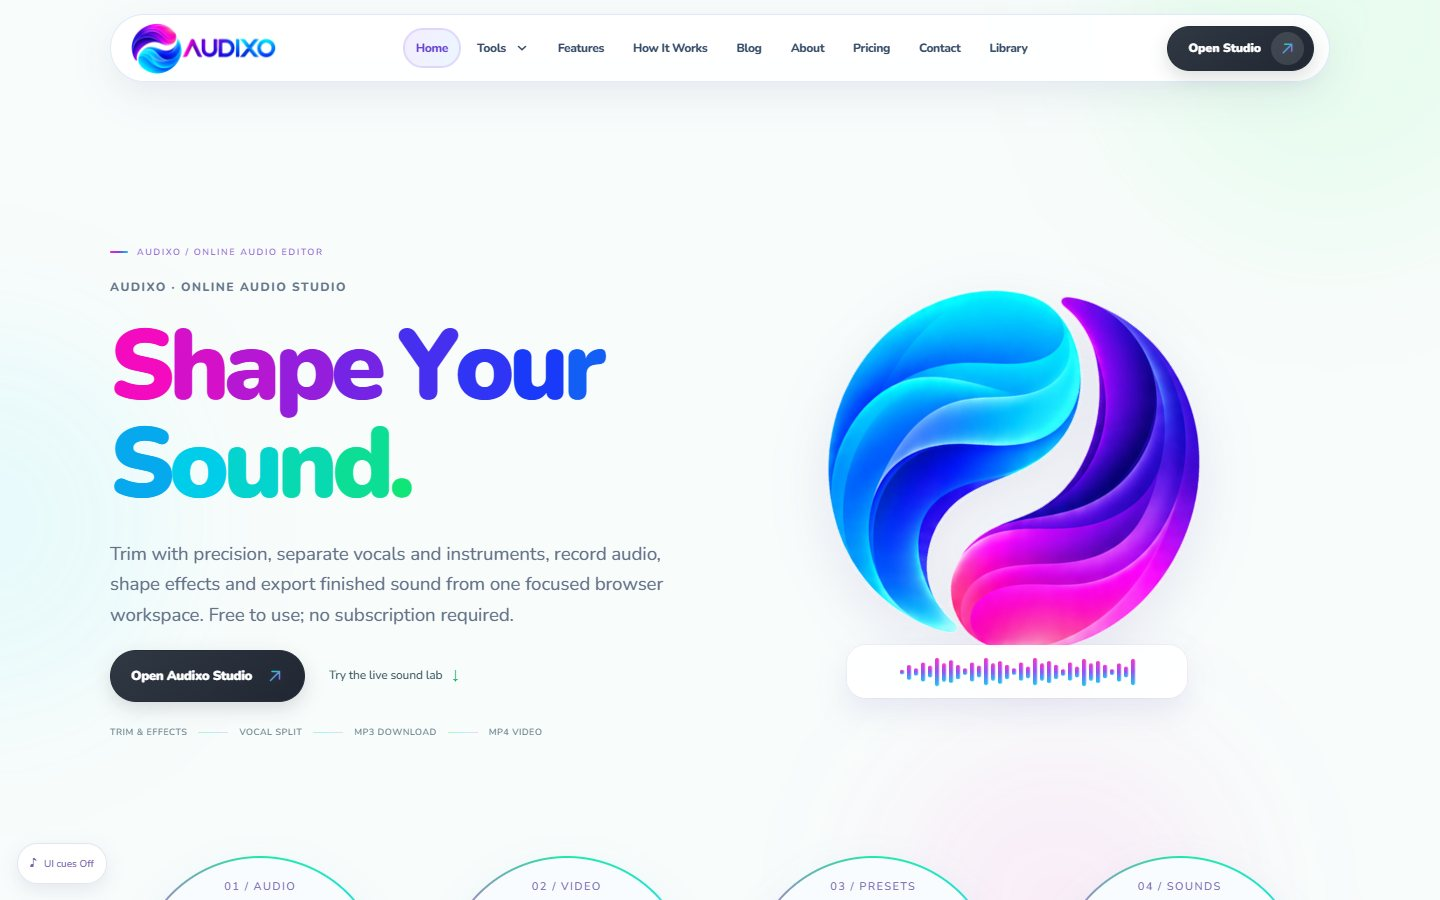
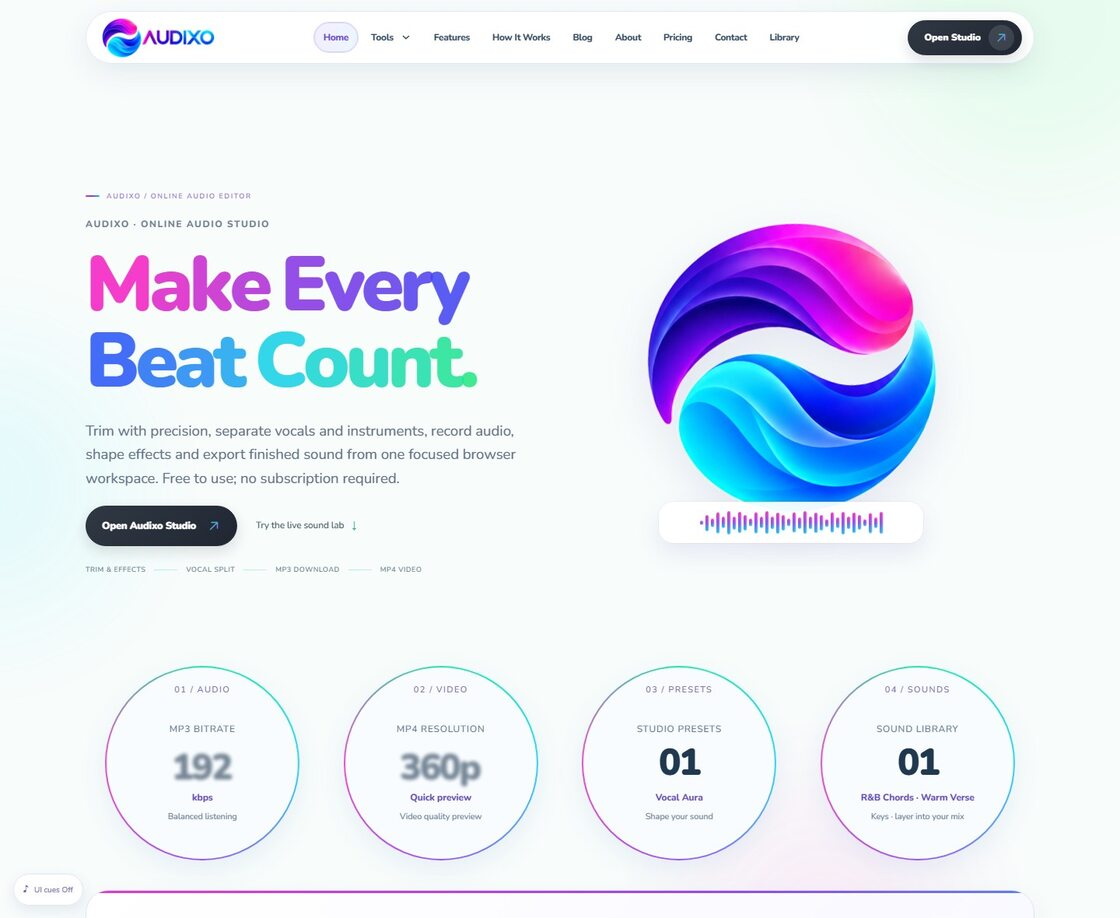
Polish hero, project previews and finger-driven glow (#12)

diff --git a/src/app/globals.css b/src/app/globals.css
@@ -1267,3 +1267,33 @@ html[data-intro="active"] .liquid-field {
 .mail-line:is(:hover,:focus-visible) .mail-plane {opacity:1;transform:translate(0,0);}
 @media(prefers-reduced-motion:no-preference){.mail-symbol svg>*{transition:transform .4s,opacity .3s;}}
 .contact-github {display:inline-block;margin-top:1.5rem;font-size:.9rem;color:#dbbfd8;}
+.portrait-scene {background:linear-gradient(180deg,transparent,#241021 17%,#21102a 78%,transparent);}
+.portrait-light {background:linear-gradient(105deg,#f35f9a,#b783f7);mask-image:linear-gradient(0deg,transparent,#000 14% 85%,transparent),linear-gradient(90deg,transparent,#000 17% 84%,transparent);mask-composite:intersect;}
+.portrait-light img {object-fit:contain;object-position:center;}
+@media(min-width:701px){
+ .portrait-light {inset:0 5% 0 41%;}
+ .signature-stage.container-x {width:min(92%,105rem);max-width:none;grid-template-columns:1.12fr .88fr;column-gap:4%;}
+ .signature h1 {font-size:clamp(5rem,9.8vw,13rem);}
+ .emblem-plate {width:min(100%,61svh);justify-self:end;}
+}
+@media(max-width:700px){.portrait-light{mask-image:linear-gradient(0deg,transparent,#000 15% 88%,transparent);}}
+.orbit-ring {border-color:#cd78bc9e;box-shadow:0 0 10px #e65aba46,inset 0 0 10px #be5bf63a,0 0 30px #c255ba27;}
+.orbit-project {border-radius:clamp(.6rem,1vw,1rem);transition:box-shadow .25s,filter .25s;}
+.orbit-project:is(:hover,:focus-visible){filter:brightness(1.18);box-shadow:0 0 0 2px #ffbbe3,0 0 24px #e961c27d;}
+.orbit-project img,.reel-image img {object-fit:contain;background:#120f16;}
+.build-dialog {display:none;position:absolute;z-index:4;min-width:65%;padding:1em 1.2em;border:1px solid #be86b7a8;border-radius:.7em;background:#160e20ee;box-shadow:0 .8em 3em #0008;font:500 clamp(.65rem,1.4vw,1.25rem)/1.6 monospace;color:#ffd2ed;}
+.build-dialog span {display:block;font-size:.7em;color:#ce9fda;border-bottom:1px solid #84507855;margin-bottom:.45em;}
+.build-dialog code {display:block;width:max-content;white-space:nowrap;overflow:hidden;}
+@media(prefers-reduced-motion:no-preference){
+ .build-dialog {display:block;animation:terminal-cycle 8s infinite;}
+ .build-dialog code {animation:type-first 8s steps(18,end) infinite;}
+ .build-dialog code:last-child {animation-name:type-next;}
+ .emblem-halo {animation:rim-turn 4s linear infinite;}
+ .emblem-plate-core img {animation:reveal-mark 8s infinite;}
+ @keyframes terminal-cycle {0%,44%,100%{opacity:0}6%,38%{opacity:1}}
+ @keyframes type-first {0%,5%{clip-path:inset(0 100% 0 0)}23%,100%{clip-path:inset(0)}}
+ @keyframes type-next {0%,23%{clip-path:inset(0 100% 0 0)}37%,100%{clip-path:inset(0)}}
+ @keyframes reveal-mark {0%,38%{opacity:.12;filter:blur(4px)}46%,95%{opacity:1;filter:none}100%{opacity:.12}}
+ .signature[data-scrolling] .build-dialog {visibility:hidden;}
+ .signature[data-scrolling] .emblem-plate-core img {animation:none;opacity:1;}
+}

diff --git a/src/components/CursorGlow.tsx b/src/components/CursorGlow.tsx
@@ -63,7 +63,7 @@ export default function CursorGlow(){
  useEffect(()=>{
   const canvas=ref.current!;
   const field=canvas.parentElement!;
-  const media=matchMedia("(hover:hover) and (pointer:fine) and (prefers-reduced-motion:no-preference)");
+  const media=matchMedia("(prefers-reduced-motion:no-preference)");
   const gl=media.matches ? canvas.getContext("webgl",{alpha:true,premultipliedAlpha:false,depth:false,antialias:false}):null;
   if(!gl)return;
   const resources:(()=>void)[]=[];
@@ -133,19 +133,26 @@ export default function CursorGlow(){
     gl!.drawArrays(gl!.TRIANGLES,0,3);fi=1-fi;oldX=nx;oldY=ny;
     pass(displayPass,null);gl!.viewport(0,0,canvas.width,canvas.height);gl!.drawArrays(gl!.TRIANGLES,0,3);
    }
-   function move(e:PointerEvent){
-    if(!media.matches||e.pointerType==="touch")return;
-    const now=performance.now();x=e.clientX/innerWidth;y=1-e.clientY/innerHeight;
+   function track(clientX:number,clientY:number){
+    if(!media.matches)return;
+    const now=performance.now();x=clientX/innerWidth;y=1-clientY/innerHeight;
     if(now-lastMove>500){oldX=x;oldY=y;}
     lastMove=now;
+    if(!frame)frame=requestAnimationFrame(draw);
+   }
+   function touch(e:TouchEvent){const t=e.touches[0];if(t)track(t.clientX,t.clientY);}
+   function move(e:PointerEvent){
+    if(e.pointerType==="touch")return;
+    track(e.clientX,e.clientY);
     const card=e.target instanceof Element?e.target.closest<HTMLElement>(".card-hover,.reel-image"):null;
     if(card!==lit){lit?.removeAttribute("data-lit");card?.setAttribute("data-lit","");lit=card;}
     if(card){const rect=card.getBoundingClientRect();card.style.setProperty("--sheen-x",e.clientX-rect.x+"px");card.style.setProperty("--sheen-y",e.clientY-rect.y+"px");}
     if(!frame)frame=requestAnimationFrame(draw);
    }
+   window.addEventListener("touchstart",touch,{passive:true});window.addEventListener("touchmove",touch,{passive:true});
    resize();field.dataset.rendered="ink-flow";
    window.addEventListener("pointermove",move,{passive:true});window.addEventListener("resize",resize);
-   return ()=>{cancelAnimationFrame(frame);window.removeEventListener("pointermove",move);window.removeEventListener("resize",resize);lit?.removeAttribute("data-lit");delete field.dataset.rendered;dispose();};
+   return ()=>{window.removeEventListener("touchstart",touch);window.removeEventListener("touchmove",touch);cancelAnimationFrame(frame);window.removeEventListener("pointermove",move);window.removeEventListener("resize",resize);lit?.removeAttribute("data-lit");delete field.dataset.rendered;dispose();};
   }catch{dispose();}
  },[]);
  return <div className="liquid-field" aria-hidden="true"><canvas ref={ref}/></div>;

diff --git a/src/components/Work.tsx b/src/components/Work.tsx
@@ -8,6 +8,7 @@ import { projects } from "@/lib/projects";
 export default function Work() {
   const section = useRef<HTMLElement>(null);
   const [current, setCurrent] = useState(0);
+  const hoverTimer = useRef(0);
   const jump = useRef<(index: number) => void>(() => {});
 
   useEffect(() => {
@@ -81,7 +82,7 @@ export default function Work() {
     };
 
     jump.current = (index) => {
-      presented = index;
+
       const top = start + travel * index / (slides.length - 1);
       window.scrollTo({ top, behavior: "instant" });
     };
@@ -97,6 +98,7 @@ export default function Work() {
     window.addEventListener("portfolio:intro-done", measure);
 
     return () => {
+      clearTimeout(hoverTimer.current);
       cancelAnimationFrame(frame);
       size.disconnect();
       motion.removeEventListener("change", configure);
@@ -116,14 +118,18 @@ export default function Work() {
       <div className="reel-stage">
         <div className="container-x reel-inner">
           <header className="reel-head">
-            <h2 id="work-heading"><RollingText>Selected</RollingText> <em><RollingText>work.</RollingText></em></h2>
+            <h2 id="work-heading"><RollingText>Selected</RollingText> <em><RollingText>projects.</RollingText></em></h2>
             <span className="folio-label">Portfolio / 2026</span>
             <span className="reel-progress" aria-hidden="true"><i /></span>
           </header>
           <div className="reel-screen">
             <div className="orbit-stage">
               <div className="orbit-ring" aria-hidden="true" /><strong aria-hidden="true">Work</strong>
-              {projects.map((project,index) => <button key={project.index} className="orbit-project" aria-label={"Select "+project.name} onClick={()=>jump.current(index)}>
+              {projects.map((project,index) => <button key={project.index} className="orbit-project" aria-label={"Select "+project.name} onPointerMove={event=>{
+                  if(event.pointerType !== "mouse" || !(event.movementX || event.movementY)) return;
+                  clearTimeout(hoverTimer.current);
+                  if(current !== index) hoverTimer.current = window.setTimeout(()=>jump.current(index),210);
+                }} onPointerLeave={()=>clearTimeout(hoverTimer.current)} onClick={()=>jump.current(index)}>
                 <Image src={project.image} width={600} height={375} sizes="(max-width:700px) 45vw, 24vw" alt="" />
               </button>)}
             </div>

diff --git a/src/components/Hero.tsx b/src/components/Hero.tsx
@@ -19,6 +19,7 @@ export default function Hero() {
     const draw = () => {
       frame = 0;
       const progress = Math.max(0, Math.min(1, -root.getBoundingClientRect().top / Math.max(1, root.offsetHeight - stage.offsetHeight)));
+      root.toggleAttribute("data-scrolling",progress>.008);
       const centerX = stage.clientWidth / 2 - plate.offsetLeft - plate.offsetWidth / 2;
       const centerY = stage.clientHeight / 2 - plate.offsetTop - plate.offsetHeight / 2;
       const zoom = Math.max(innerWidth, stage.clientHeight) / (plate.offsetWidth * 0.76);
@@ -78,7 +79,7 @@ export default function Hero() {
         <div className="emblem-plate" aria-hidden="true">
           <div className="emblem-plate-core">
             <div className="emblem-halo" />
-            <pre className="emblem-code"><code>{'git switch main\nconst mark = "MH";\nrender(mark);'}</code></pre>
+            <div className="build-dialog"><span>studio.ts</span><code>const mark = "MH";</code><code>render(mark);</code></div>
             <Image src="/mh-emblem.webp" alt="" width={1254} height={1254} sizes="(max-width: 700px) 48vw, 32vw" loading="eager" />
           </div>
         </div>

diff --git a/src/components/SmoothScroll.tsx b/src/components/SmoothScroll.tsx
@@ -40,7 +40,7 @@ export default function SmoothScroll() {
     function roll(group: Element | null) {
       if (!group || matchMedia("(prefers-reduced-motion:reduce)").matches) return;
       const letters = Array.from(group.querySelectorAll<HTMLElement>(".roll-letter"));
-      const beat = Math.min(58, 940 / Math.max(1,letters.length));
+      const beat = 110;
       letters.forEach((letter,index) => {
         letter.getAnimations().forEach(a=>a.cancel());
         letter.animate([{transform:"rotate(0deg)"},{transform:"rotate(360deg)"}],{
